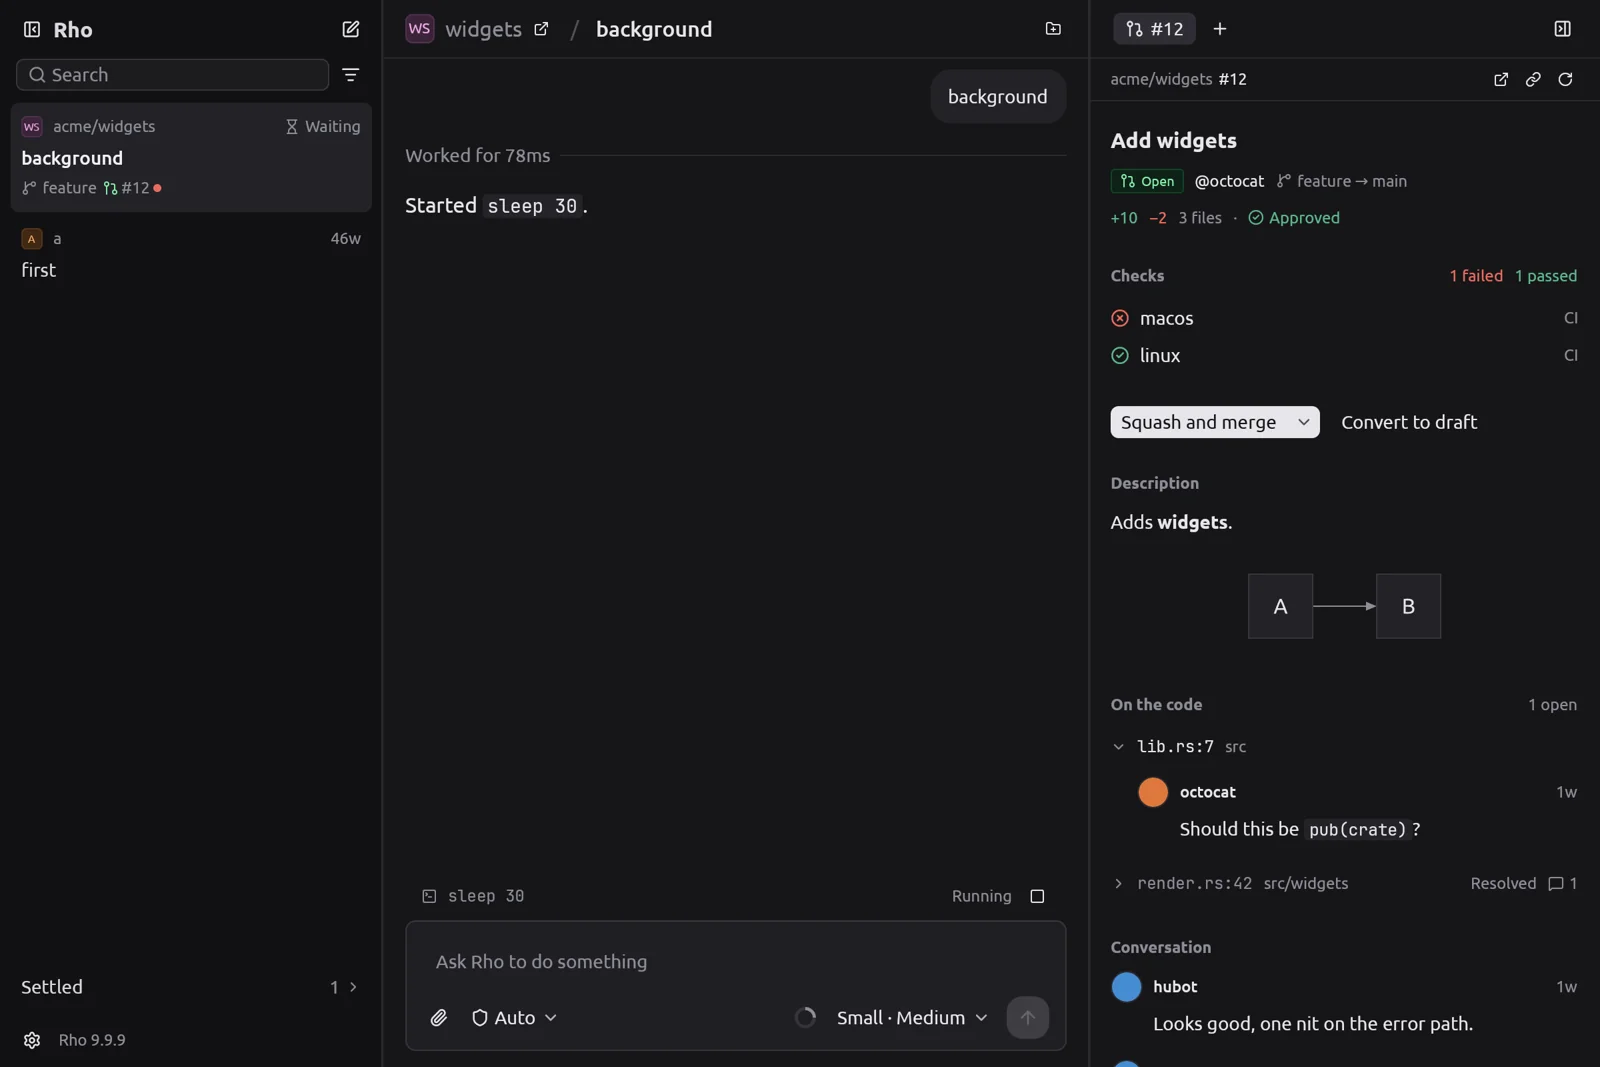
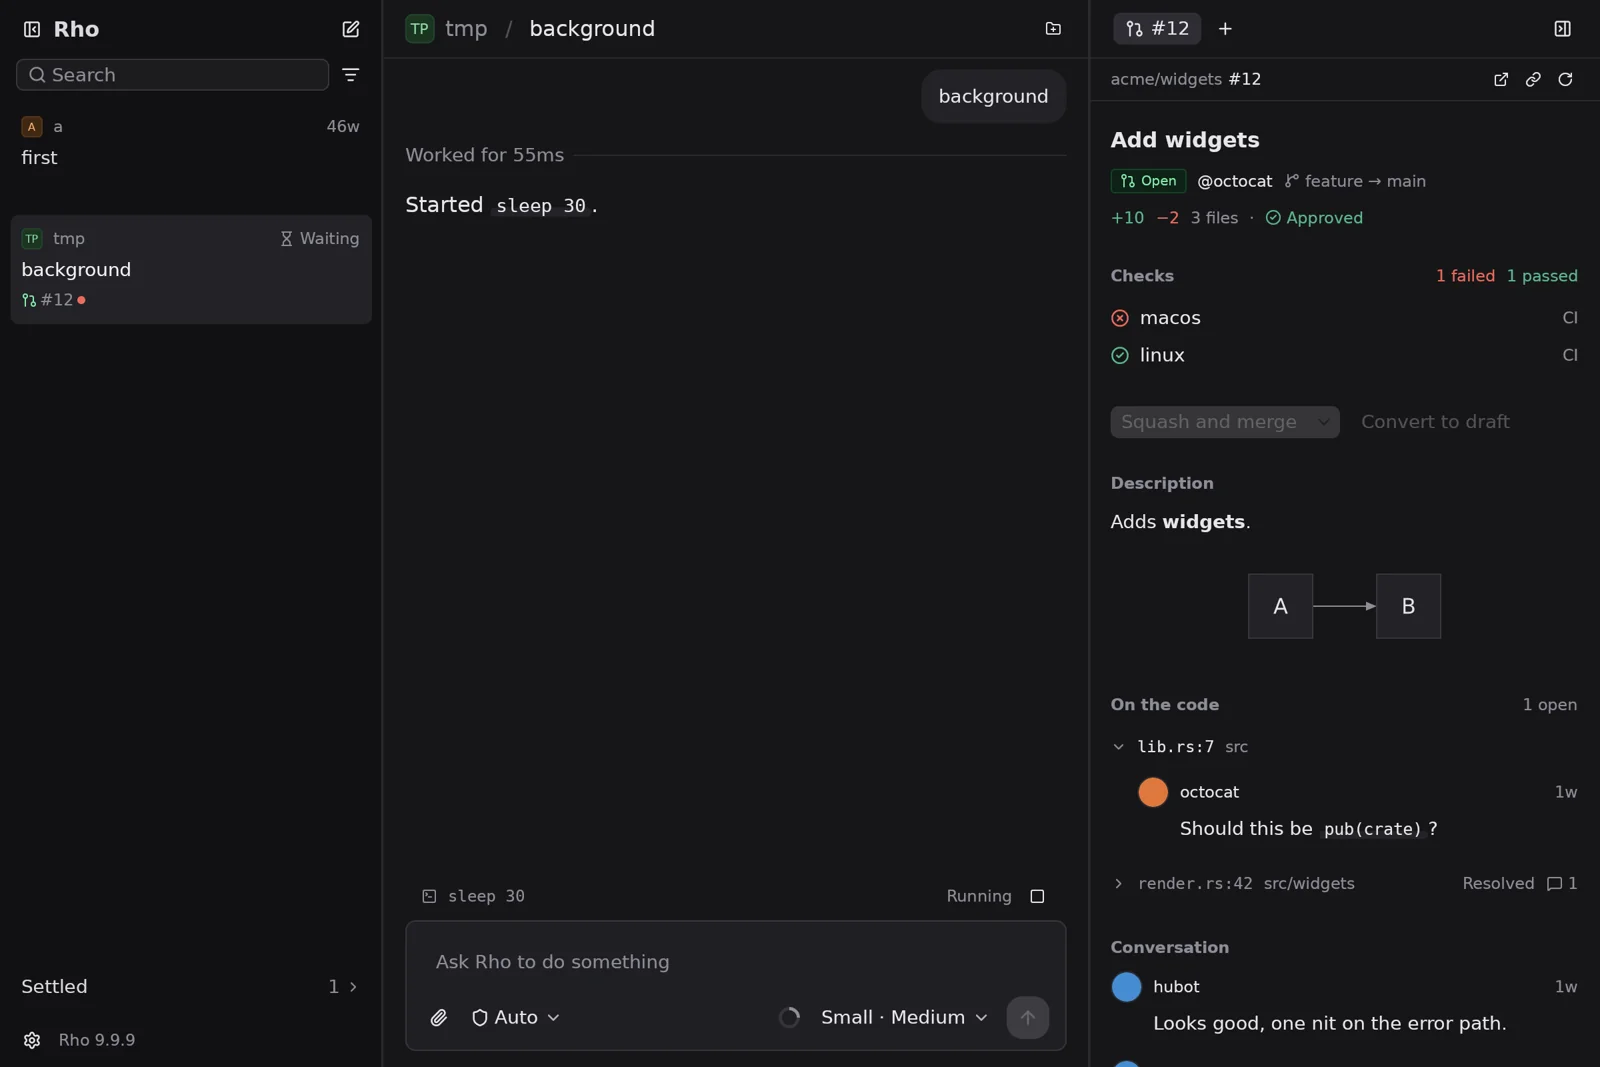
docs: say each machine's daemon reads pull requests

diff --git a/docs/architecture.md b/docs/architecture.md
@@ -17,7 +17,7 @@ flowchart TD
 | --- | --- |
 | `rho-ui-core` | The connection to the daemon, its requests, the event stream, `Session`, which turns session events into transcript entries (each tool call keeps the daemon's `ToolCard`, what to show a person, beside the content the model read), open requests and settings, `AgentSettings`, rho's own settings as the daemon describes them (`rho/config/schema`), with their values (`rho/config/get`) kept current by `DaemonEvent::AgentSettingsChanged` and written back with `Daemon::set_agent_settings`, `Jobs` (`jobs.rs`), what one `rho/job/list` says: the sessions with work under way, and each session's subagent and workflow runs (`Runs`), nested as the jobs' parents say, a workflow's drives as one run, with their queue place and error, and `Timeline`, which groups each run of tool calls and thoughts into one row and splits rows into turns, so the UI can fold a finished turn's working behind one line. `surface` holds the surfaces a session's `ui` tool shows (see [Surfaces](#surfaces)). It also has the client side of `rho-ui serve` (`server.rs`, see [In a browser](#in-a-browser)). It also runs each machine's `rho` program apart from its daemon (`rho_install.rs`): whether rho is there, whether a newer release is out (`rho update --check --json`), and installing or updating it. On this machine it runs `rho` itself, and rho's own installer to install it: `install.sh` with `sh` on Unix, `install.ps1` with PowerShell on Windows. On a remote machine each job is one POSIX `sh` script over ssh. It has no GUI code. It keeps one small Tokio runtime for the daemon sockets and the ssh connections that carry remote ones, because `rho-protocol`'s client and russh need one; every method returns a plain future that any executor can await. |
 | `rho-a2ui` (crates.io) | rho's A2UI v1.0 core, released with rho and named `a2ui` in rho-ui's code. `rho-ui-core` uses its renderer side: `MessageProcessor`, which applies the daemon's surface messages, resolves a component's properties in a scope for a view and dispatches its actions, with the basic catalog (`Catalog::basic()`, `Functions::basic()`) and `DataModel`. It has no GUI code. Its source, and the Google conformance suites it is tested against, live in rho (`crates/rho-a2ui`). |
-| `rho-ui` | Windows, views, and input, and which machine each session, project and folder is on. `RhoApp` keeps one connection per machine; `machines.rs` names machines and keys sessions (`SessionKey`) and folders (`Place`) by machine, since session IDs are unique only within one daemon. `Machines` also carries what the user asks of a machine's daemon (`DaemonAction`: connect again, restart, stop) from whichever view to `RhoApp`, whose `app/daemon_control.rs` asks first, saying what it would cut short, then acts. `rho_install.rs` keeps what each machine's rho needs, installing, updating, or a restart into the newer one its daemon waits to run, for the setup screen, the sidebar's footer and About. `rho_settings.rs` reads each connected machine's rho settings for the Settings dialog, and sends one write at a time to each. `auths.rs` keeps each connected machine's auth profiles, its credential store and the login it runs, for Settings → Providers and the sign-in card above a signed-out session's composer (`sign_in.rs`), which act through it alike. `worktrees.rs` keeps each connected machine's session worktrees, checked and pruned through `rho/worktree/prune`, for Settings → Worktrees. `forge.rs` checks the forge CLIs on each machine, such as GitHub's `gh`, and parses what they say of their accounts; like `folders.rs`, it runs them here as programs and on a remote machine with a POSIX `sh` script per job (`forge::Job`), both printing the same for one parser. `pull_requests.rs` reads the pull request of each session's branch, or the one linked to it (`PrLinks`, in the state database), through one of them: every 30 seconds for the session on the Pull request surface, and every 5 minutes for the sidebar's active rows, with one batched GraphQL query per machine, reader and host (`forge/gh_pulls.rs` builds and reads it). The PR data both sides share, what a query asks and what it finds, is in `pull_requests/model.rs`. `surface_view/` draws a surface with GPUI Kit's controls. `transcript.rs` draws a session's rows in a list that builds only the rows near the window; `parts.rs` splits a long reply's Markdown between its blocks, so each part is an item of that list and a frame costs what is on screen, not the reply's length. On Unix the same binary is also `rho-ui serve` (`serve.rs`), which serves the web build to a browser (see [In a browser](#in-a-browser)). |
+| `rho-ui` | Windows, views, and input, and which machine each session, project and folder is on. `RhoApp` keeps one connection per machine; `machines.rs` names machines and keys sessions (`SessionKey`) and folders (`Place`) by machine, since session IDs are unique only within one daemon. `Machines` also carries what the user asks of a machine's daemon (`DaemonAction`: connect again, restart, stop) from whichever view to `RhoApp`, whose `app/daemon_control.rs` asks first, saying what it would cut short, then acts. `rho_install.rs` keeps what each machine's rho needs, installing, updating, or a restart into the newer one its daemon waits to run, for the setup screen, the sidebar's footer and About. `rho_settings.rs` reads each connected machine's rho settings for the Settings dialog, and sends one write at a time to each. `auths.rs` keeps each connected machine's auth profiles, its credential store and the login it runs, for Settings → Providers and the sign-in card above a signed-out session's composer (`sign_in.rs`), which act through it alike. `worktrees.rs` keeps each connected machine's session worktrees, checked and pruned through `rho/worktree/prune`, for Settings → Worktrees. `forge.rs` checks the forge CLIs on each machine, such as GitHub's `gh`, and parses what they say of their accounts; like `folders.rs`, it runs them here as programs and on a remote machine with a POSIX `sh` script per job (`forge::Job`), both printing the same for one parser. `pull_requests.rs` asks each machine's daemon for its sessions' pull requests (`rho/session/pull_request/*`), the branch's and the linked ones, and keeps what it answers: `show` every 30 seconds for the PR on the Pull request surface, which keeps the daemon reading it, and `list` every minute for the sidebar's active rows; a `pull_requests` event replaces a followed session's set. The daemon reads GitHub, not rho-ui; `forge/gh_pulls.rs` only runs the actions, comment, merge, ready and draft, with `gh` on the session's machine. `surface_view/` draws a surface with GPUI Kit's controls. `transcript.rs` draws a session's rows in a list that builds only the rows near the window; `parts.rs` splits a long reply's Markdown between its blocks, so each part is an item of that list and a frame costs what is on screen, not the reply's length. On Unix the same binary is also `rho-ui serve` (`serve.rs`), which serves the web build to a browser (see [In a browser](#in-a-browser)). |
 
 The workspace uses `rho-protocol` 1.4 from crates.io, released with rho 3; 1.2 is the first that builds its client for the browser, and 1.4 the first that serves a session's pull requests. Until 1.4.0 is released, the root `Cargo.toml` patches it to rho's branch that adds them. At the handshake the client names its wire schema; a daemon built against another schema still connects, and the sidebar warns that requests may fail, with a restart of the daemon into the rho installed there (see [About and the daemon](guide/settings.md#about-and-the-daemon)), so run a rho whose `rho-protocol` matches.
 

diff --git a/docs/testing.md b/docs/testing.md
@@ -12,7 +12,7 @@ On Linux, CI also runs clippy on the web build, for `wasm32-unknown-unknown` (`c
 
 Before adding or growing a test, load the `rho-ui-test-selection` skill (`.agents/skills`): every test needs a failure mode, one owner layer, and a gap.
 
-- `rho-ui-core` has a scripted daemon for tests (`fake_daemon`, behind the `test-support` feature): `rho-protocol`'s real server side, listening where rho's daemon would (a Unix socket, or on Windows a named pipe), with no model or network. `tests/fixtures/bash_turn.jsonl` is a recorded turn from a real daemon, and `tests/fixtures/tool_cards.jsonl` holds tool calls a rho 3 daemon sent with their cards, streamed and finished, and `tests/fixtures/ui_surface.jsonl`, written by hand, holds `ui` calls with their surfaces as rho's protocol sends them. The fake's prompts "ui" and "gallery" show a form and every component of the A2UI basic catalog, and "widen" changes the form (`fake_daemon/surface.rs`). UI tests name a surface's elements with `surface_view::element_id`, as the panel does.
+- `rho-ui-core` has a scripted daemon for tests (`fake_daemon`, behind the `test-support` feature): `rho-protocol`'s real server side, listening where rho's daemon would (a Unix socket, or on Windows a named pipe), with no model or network. `tests/fixtures/bash_turn.jsonl` is a recorded turn from a real daemon, and `tests/fixtures/tool_cards.jsonl` holds tool calls a rho 3 daemon sent with their cards, streamed and finished, and `tests/fixtures/ui_surface.jsonl`, written by hand, holds `ui` calls with their surfaces as rho's protocol sends them. The fake's prompts "ui" and "gallery" show a form and every component of the A2UI basic catalog, and "widen" changes the form (`fake_daemon/surface.rs`). UI tests name a surface's elements with `surface_view::element_id`, as the panel does. It also serves a session's pull requests (`fake_daemon/pull_requests.rs`): every session answers no git repository and no links until a test gives its branch a PR (`open_pull_request`) or edits its set (`edit_pull_requests`), which sends the `pull_requests` event as rho's daemon does; `Script::pull_requests` makes it a daemon from before pull requests, which answers `MethodNotFound`.
 - `rho-ui` UI tests (`crates/rho-ui/src/ui_tests.rs`) open the real app in an offscreen window, click and type through GPUI Kit's test helpers, and talk to the same fake daemon. A test reaches a remote machine through another fake daemon's socket in place of ssh, by giving `LaunchConfig::remote` its own resolver; with no ssh link there, a remote terminal's shell is tested in `crates/rho-ui-core/tests/ssh.rs` instead. `crates/rho-ui-core/tests/ssh.rs` runs the ssh path against `fake_sshd` (behind the same feature): russh's server side on 127.0.0.1 in the test's process, with a host key and a client key of its own. It runs each command with this machine's `sh` in a temporary home that plays the remote machine, under a real pseudo-terminal (`portable-pty`) when the client asks for one, as a remote terminal does (it says how each such session ended, and can refuse pseudo-terminals as `PermitTTY no` does), and forwards the daemon's channel to a fake daemon's socket. Its targets pick the `known_hosts` file (the server's key, none, or another key) and the key files to sign in with, and use no key agent, so the tests never touch your ssh setup. It counts the keys clients offer and the times they sign in, so a test can tell one shared connection from several. The ones that stop before running a command, at the host key or signing in, run on Windows too. On Linux they render on Mesa lavapipe, Vulkan in software (`mesa-vulkan-drivers` on Debian and Ubuntu), whatever GPU the machine has, so screenshots match across machines; set `VK_LOADER_DRIVERS_SELECT` to pick another driver. On macOS they render on Metal, with the text system GPUI's Mac platform uses, built alone because the platform must be made on the main thread. GPUI has no offscreen renderer for Windows, so there they render with its wgpu one, on Vulkan: a Windows machine needs a Vulkan driver, and CI installs the Vulkan loader and Mesa lavapipe. Shortcuts are pressed as `secondary-…`, so they test whichever modifier the platform binds. The terminal tests run `/bin/dash`, whose `$ ` prompt they wait for (macOS's `/bin/sh` is bash). Each run saves screenshots to `target/ui-shots/` for review.
 
 To check rho-ui against a real daemon and model, install rho 3, sign it in, and run the `live_daemon` test. It starts the daemon, runs a turn through an approval, and saves screenshots. A new rho home starts in `bypass`, which asks for no approvals, so set `permission_mode = "supervised"` under `[behavior]` in its `config.toml`:

diff --git a/docs/guide/panel.md b/docs/guide/panel.md
@@ -22,9 +22,10 @@ Both have limits: Files won't open a file over 2 MiB or a binary one, and lists 
 
 Shows the GitHub pull request for the session's branch, with its checks, reviews and threads, and lets you comment, merge, and mark it ready or draft.
 
-- **It needs `gh`.** It reads GitHub as this machine's account if that's signed in to the host, else as the session machine's. Comments and merges run on the session's machine. See [Source control](./settings#source-control).
-- **Profile pictures need `curl`** on the machine that reads GitHub, which fetches each from where GitHub serves it. Without it, or for a picture that needs a sign-in, initials show. Refresh asks again for the ones that didn't load.
+- **The session machine's rho reads it.** Each machine's rho daemon reads GitHub for its own sessions, with the `gh` on its own `PATH`, signed in on that machine. It needs a rho newer than 3.3; an older one says to update rho. Comments and merges run rho-ui's `gh` on the session's machine. See [Source control](./settings#source-control).
+- **Only github.com origins get a branch PR.** A session whose `origin` is on another host, GitHub Enterprise included, shows none for its branch; link one by its URL instead.
+- **Profile pictures need `curl`** on the session's machine, which fetches each from where GitHub serves it. Without it, or for a picture that needs a sign-in, initials show. Refresh asks again for the ones that didn't load.
 - **Merging is guarded.** A merge only merges the head commit you were shown, so a commit the session pushed since doesn't slip in. It doesn't delete the branch, which the session may still use.
-- **Reading is lazy.** It polls every 30 seconds, and only while its tab shows and the window has focus. When the account's API limit has 50 points or fewer left, it waits for the reset and says so.
-- **Link** follows other PRs too. Paste a URL, `owner/name#N`, or a number in the session's repository. Links are kept between runs.
-- **The sidebar marks each session's PR** beside its branch, with a red dot while its checks fail. It refreshes every 5 minutes.
+- **Reading is lazy.** rho reads the PR every 30 seconds, and only while its tab shows and the window has focus. When the account's API limit has 50 points or fewer left, rho waits for the reset and the panel says so.
+- **Link** follows other PRs too. Paste a URL, `owner/name#N`, or a number in the session's repository. Links are kept by the session's rho, so they follow the session to any rho-ui. The PRs the session's agent links or watches get tabs too, marked **watched** while the agent waits on them; unlinking one ends the agent's watch.
+- **The sidebar marks each session's PR** beside its branch, with a red dot while its checks fail. rho reads it every 5 minutes.

diff --git a/docs/guide/settings.md b/docs/guide/settings.md
@@ -8,7 +8,7 @@ rho-ui's own settings live in `~/.config/rho-ui/settings`, apart from rho's: the
 
 ## Source control
 
-The Pull request panel reads GitHub through `gh`. rho-ui looks for it on `PATH`, then through your login shell; set **Program** if it lives elsewhere. Signing in to `gh` asks questions in a terminal, so run `gh auth login` there.
+The Pull request panel's comments and merges run `gh`. rho-ui looks for it on `PATH`, then through your login shell; set **Program** if it lives elsewhere. Reading the PR is rho's job: each machine's rho daemon runs the `gh` on its own `PATH`, whatever **Program** says. Signing in to `gh` asks questions in a terminal, so run `gh auth login` there.
 
 rho-ui runs `gh` without a login shell. Variables such as `GH_TOKEN`, or a proxy set only in a login profile, don't reach it:
 
